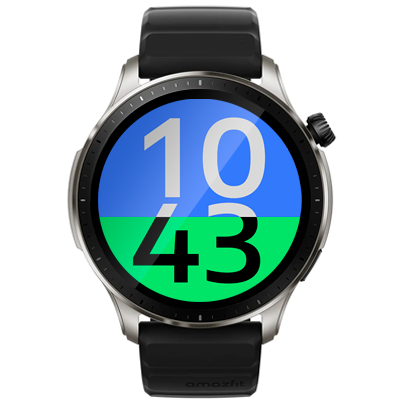
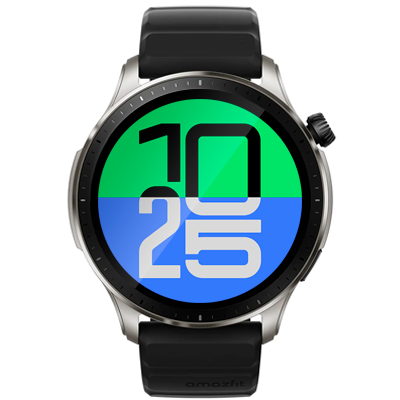
feat(flux): update screens

Changed region(s): [[0.24, 0.24, 0.78, 0.78]]

diff --git a/flux/watchface/index.js b/flux/watchface/index.js
@@ -56,7 +56,7 @@ WatchFace({
     const max = DIGIT_LAYOUTS.length - 1;
     const i = ((value * 2654435761) >>> 0) % max;
 
-    return DIGIT_LAYOUTS[i];
+    return DIGIT_LAYOUTS[1];
   },
 
   buildTime(colorTheme) {
